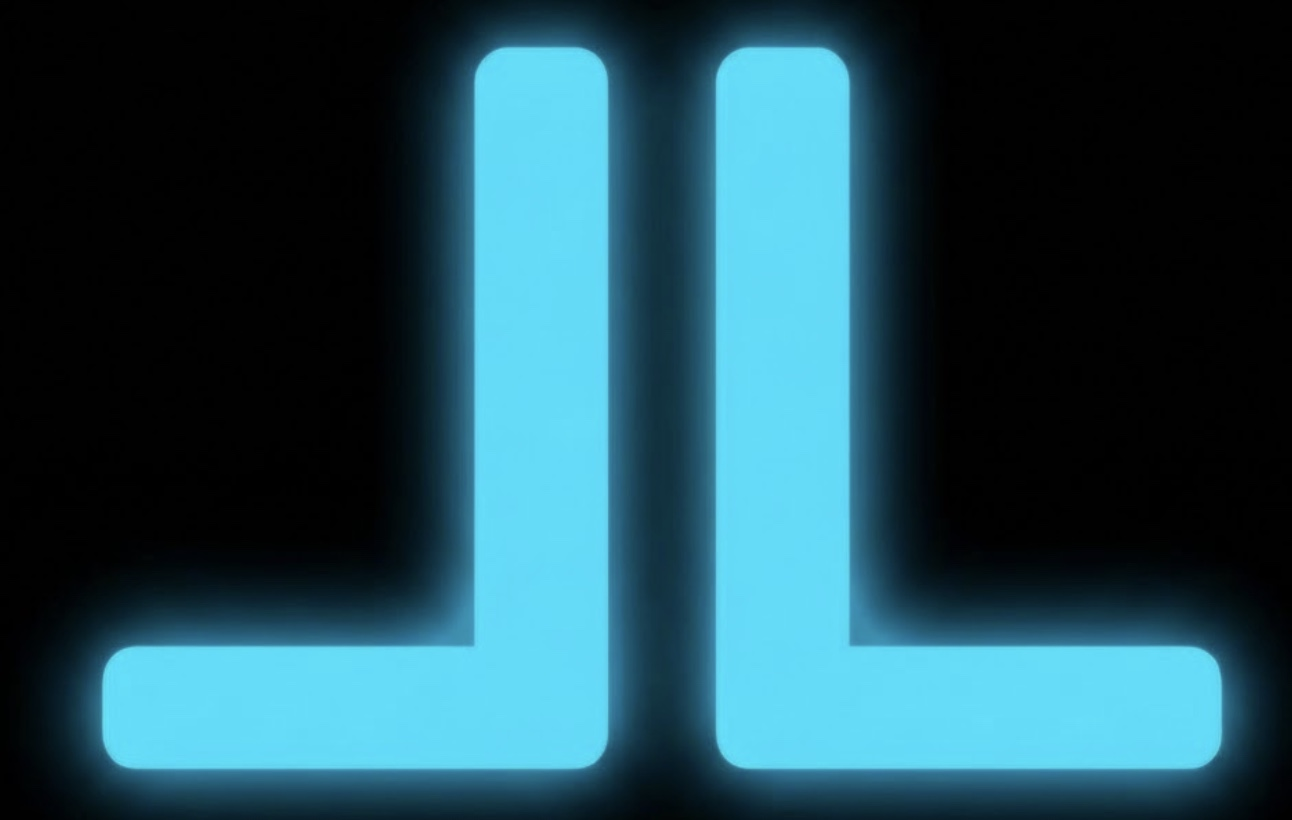
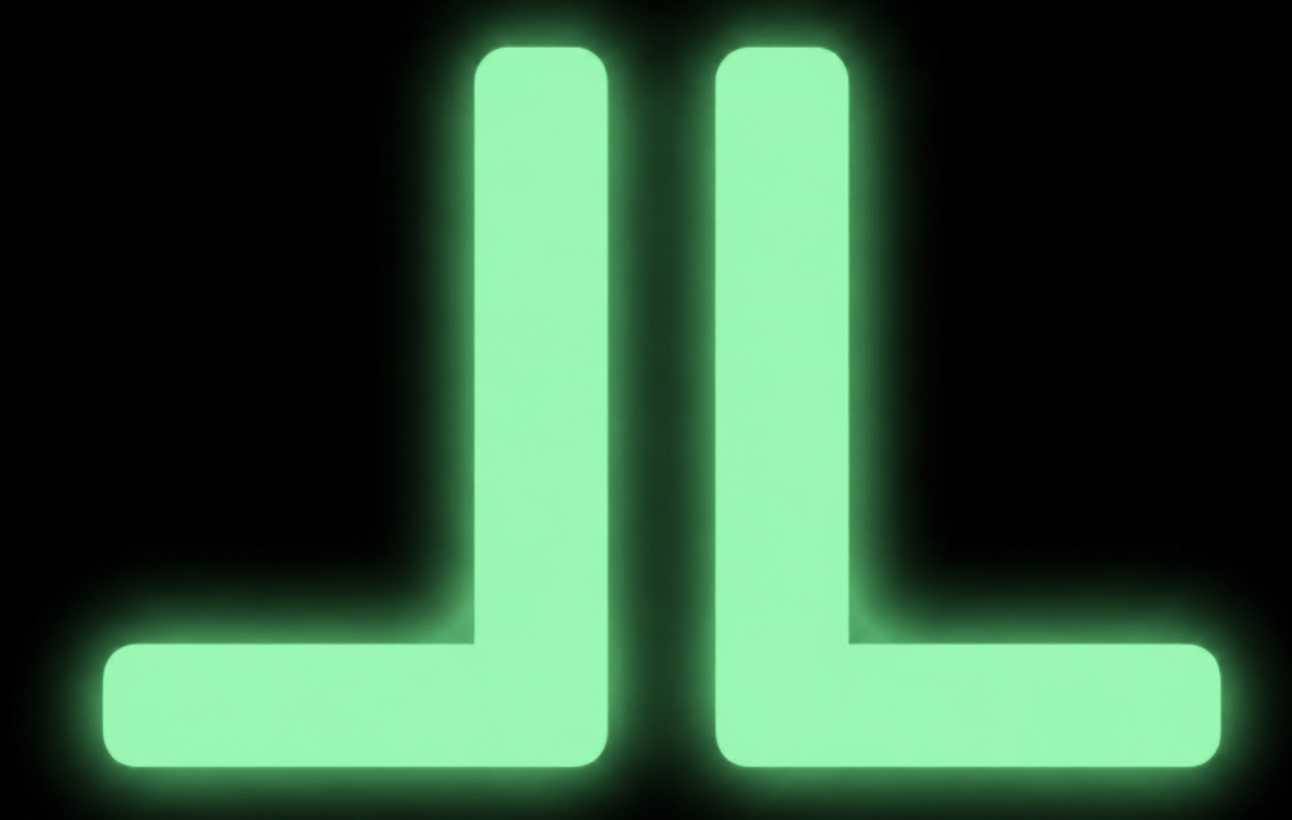
Green overlay instead of blue

diff --git a/src/app/globals.css b/src/app/globals.css
@@ -1,20 +1,20 @@
 @import 'tailwindcss';
 :root {
   --paper: #000000;
-  --ink: #edf6fa;
-  --muted: #a5b6c0;
-  --line: #30434e;
-  --surface: #0c141a;
-  --surface-raised: #14222c;
-  --accent: #83dfff;
-  --accent-hover: #b4edff;
-  --accent-soft: #102b38;
-  --accent-line: #42768b;
-  --on-accent: #03151e;
+  --ink: #eff8f1;
+  --muted: #a9bdae;
+  --line: #324b3a;
+  --surface: #0d1710;
+  --surface-raised: #17271c;
+  --accent: #a3efb1;
+  --accent-hover: #c4f7cd;
+  --accent-soft: #142f1c;
+  --accent-line: #4e855c;
+  --on-accent: #071b0d;
   --green: #267455;
   --yellow: #e7b951;
-  --gray: #455560;
-  --companion: #b5c8ff;
+  --gray: #49594e;
+  --companion: #d3ebac;
   --font-body: 'DM Sans', sans-serif;
   --font-display: 'Space Grotesk', sans-serif;
   color-scheme: dark;
@@ -164,7 +164,7 @@ nav {
 .primary {
   background: var(--accent);
   color: var(--on-accent);
-  box-shadow: 0 4px 24px #83dfff12;
+  box-shadow: 0 4px 24px #a3efb112;
 }
 .primary:hover:not(:disabled) {
   background: var(--accent-hover);
@@ -460,7 +460,7 @@ nav {
 .key.present,
 .present {
   background: var(--yellow);
-  color: #03151e;
+  color: var(--on-accent);
   border-color: var(--yellow);
 }
 .tile.absent,
@@ -539,7 +539,7 @@ nav {
 .tiny-progress i {
   width: 13px;
   height: 16px;
-  background: #687d8a;
+  background: #6e8374;
   border-radius: 2px;
 }
 .preview-caption {
@@ -614,7 +614,7 @@ nav {
   color: var(--ink);
 }
 .how-dialog::backdrop {
-  background: #03090dcc;
+  background: #040d07cc;
   backdrop-filter: blur(4px);
 }
 .dialog-heading {
@@ -852,7 +852,7 @@ nav {
   width: 5px;
   height: 5px;
   border-radius: 50%;
-  background: #687d8a;
+  background: #6e8374;
   flex-shrink: 0;
 }
 .player-status i.online {
@@ -1051,7 +1051,7 @@ nav {
   display: grid;
   place-items: center;
   border: 1px solid var(--line);
-  box-shadow: 0 0 0 15px #83dfff14;
+  box-shadow: 0 0 0 15px #a3efb114;
 }
 .countdown-overlay > p {
   font-size: 14px;
@@ -1174,8 +1174,8 @@ nav {
   background: var(--surface);
 }
 .masked-tile.filled {
-  background: #687d8a;
-  border-color: #687d8a;
+  background: #6e8374;
+  border-color: #6e8374;
 }
 .masked-state {
   font-size: 12px;
